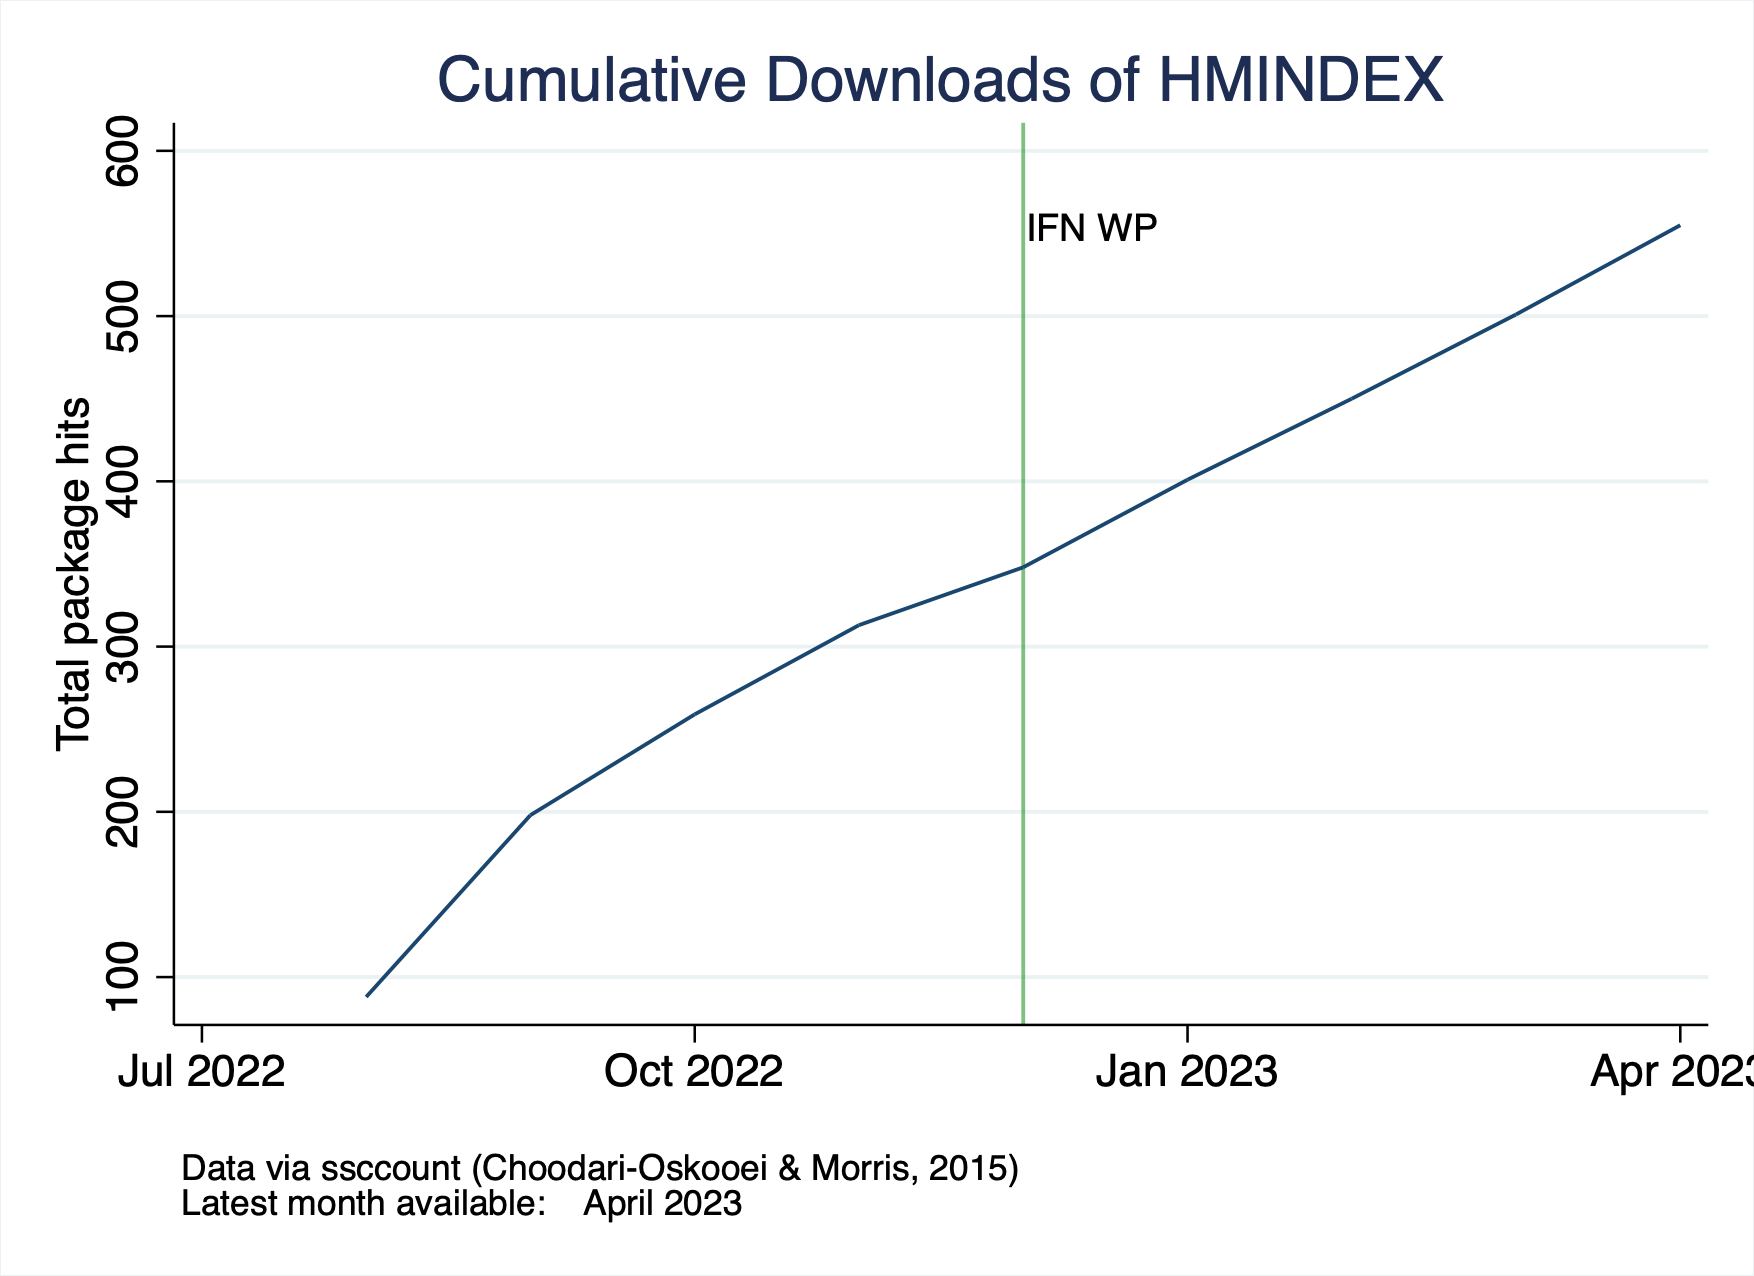
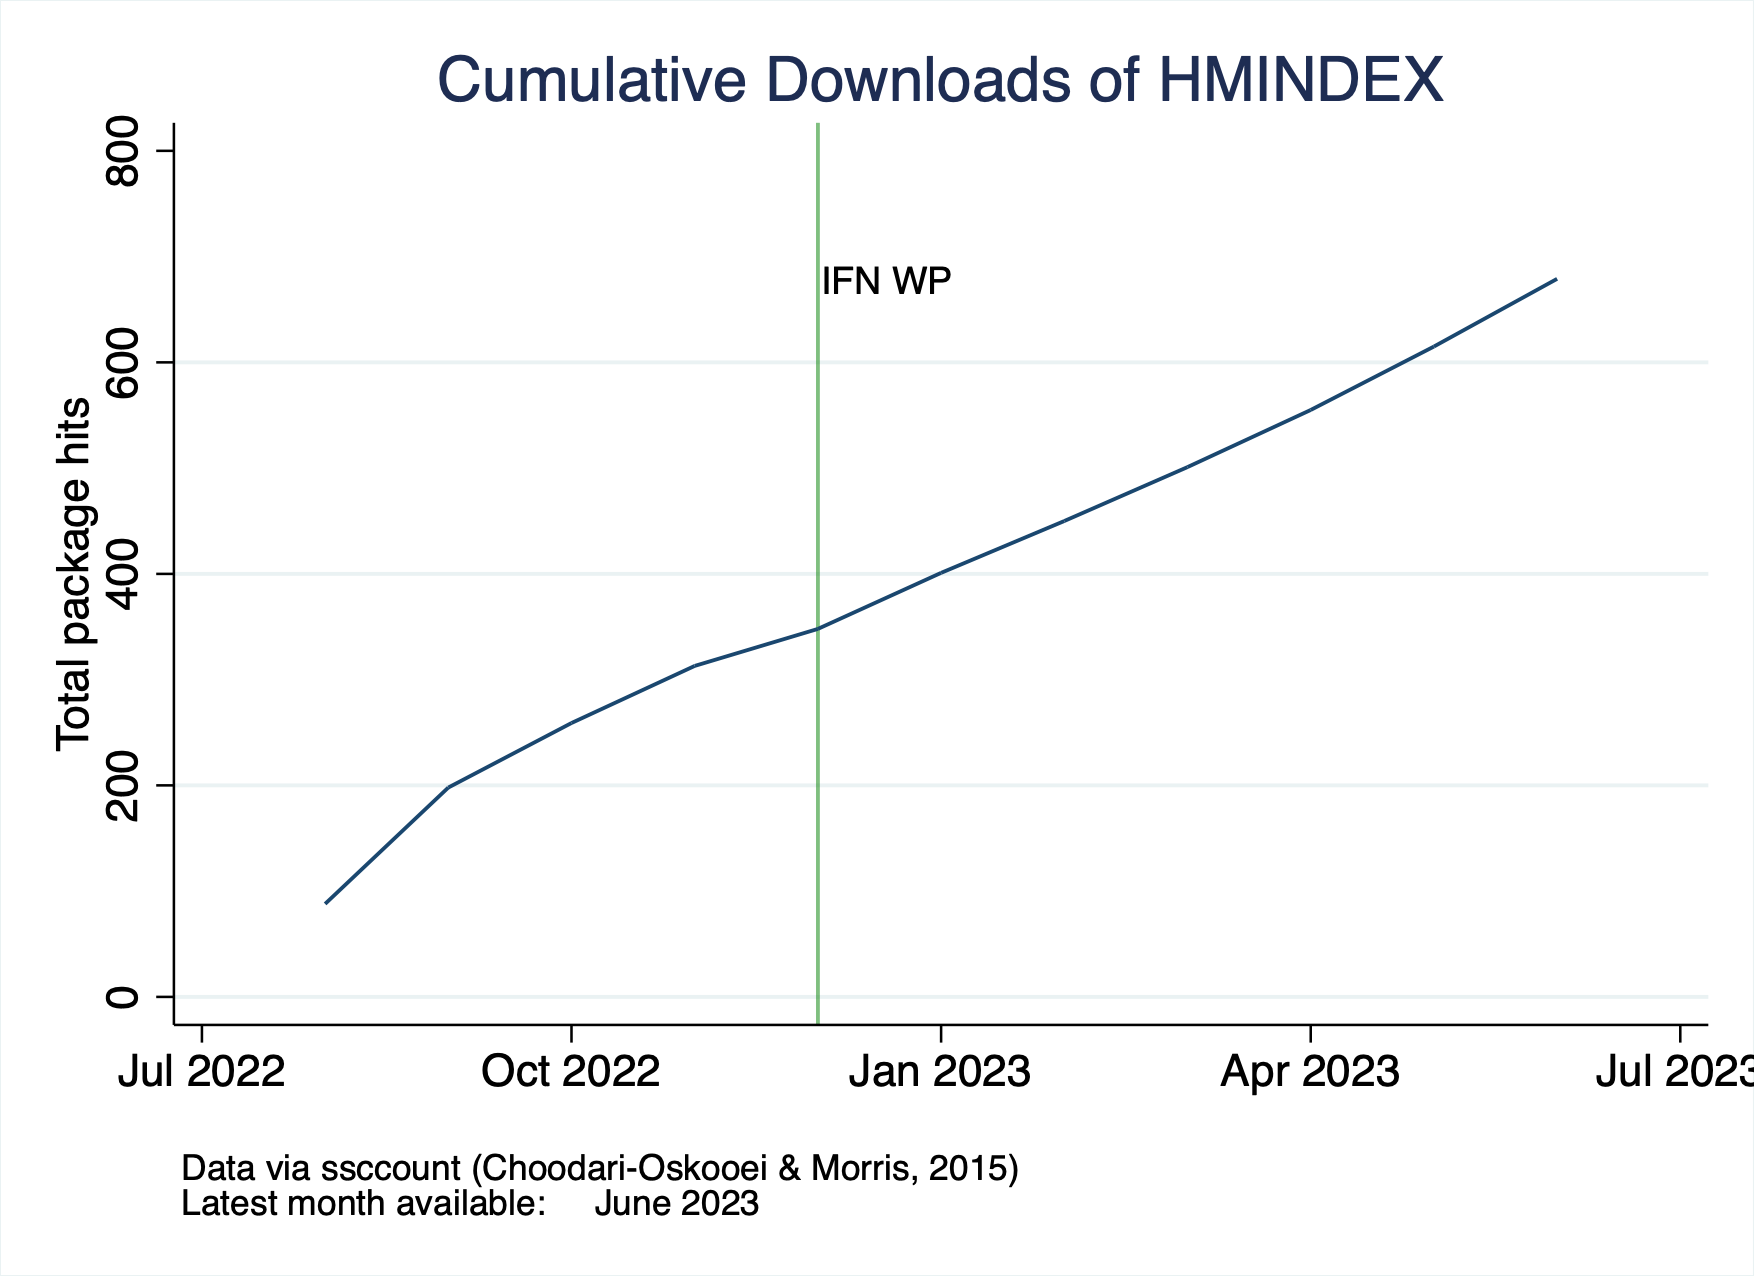
update npghits for rpaxioms and hmindex

diff --git a/_posts/2022-07-01-rpaxioms.md b/_posts/2022-07-01-rpaxioms.md
@@ -17,7 +17,7 @@ household-level aggregate consumption data.
 ## Citation
 Demetry, M., Hjertstrand, P. and Polisson, M., 2022. Testing axioms of revealed preference in Stata. <i>The Stata Journal</i>, 22(2), pp.319-343.
 
-## Total downloads: 1,663
+## Total downloads: 1,838
 <img src="/assets/img/rpaxioms_cumulative_hits.png" alt="number of downloads" width="100%"/>
 
 <details>

diff --git a/_posts/2022-12-01-hmindex.md b/_posts/2022-12-01-hmindex.md
@@ -13,7 +13,7 @@ note introduces the _Stata_ command __hmindex__, which calculates the Houtman-Ma
 prices and observed choices of a consumer. The command is illustrated with an empirical application.
 
 
-## Total downloads: 555
+## Total downloads: 679
 <img src="/assets/img/hmindex_cumulative_hits.png" alt="number of downloads" width="100%"/>
 
 
